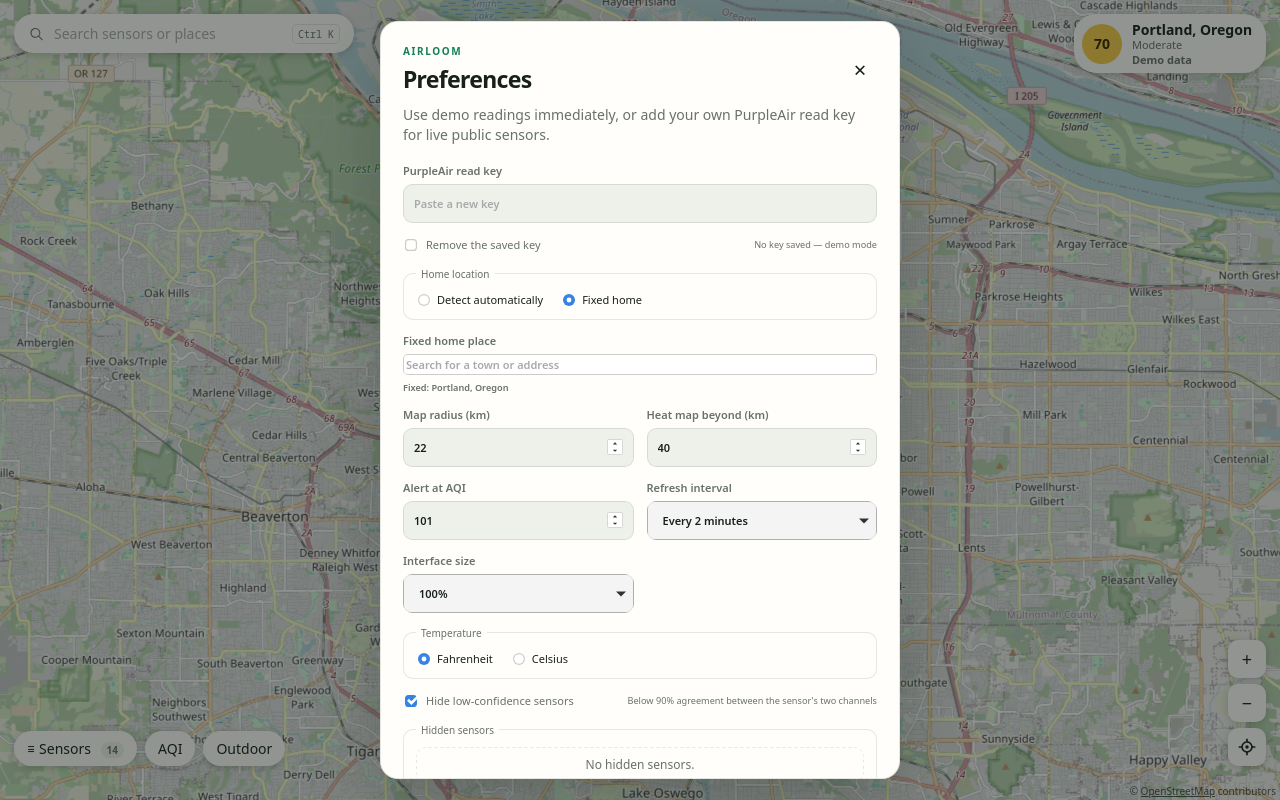
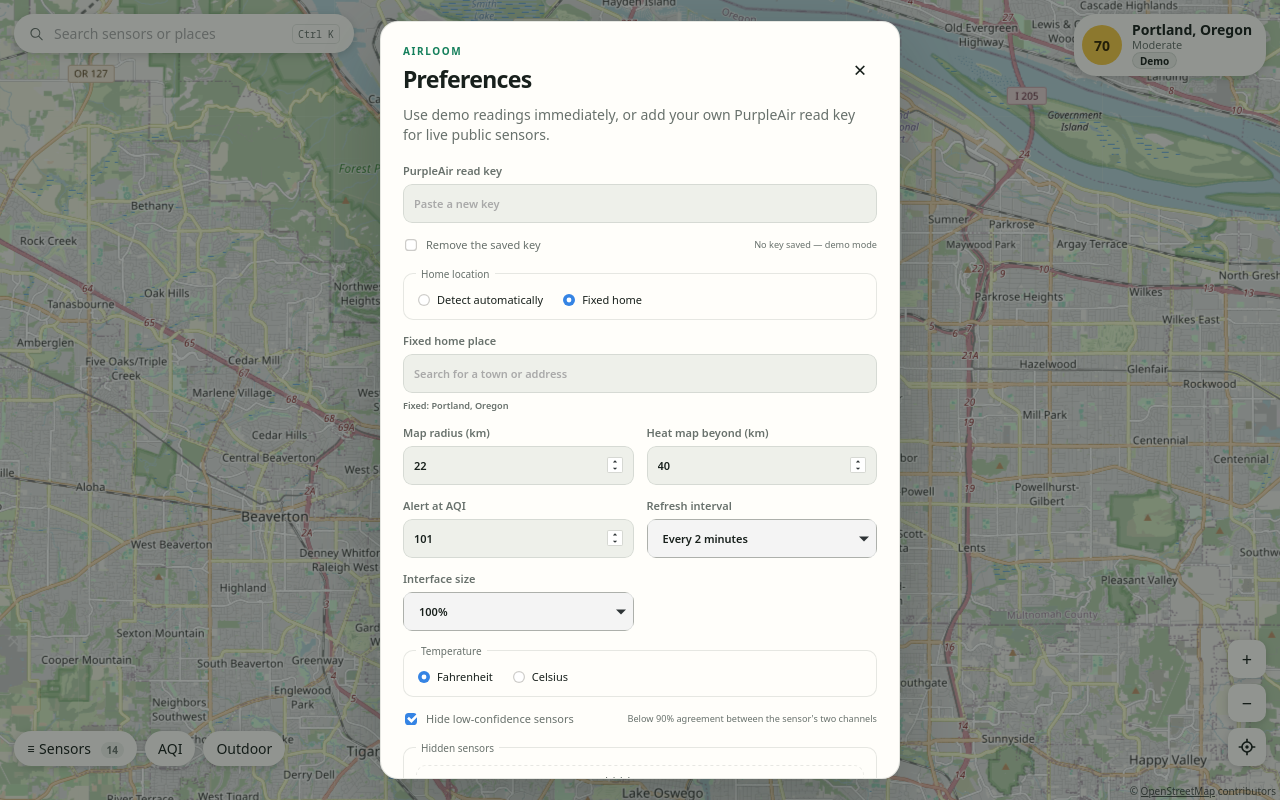
Release 0.14.0

diff --git a/airloom/__init__.py b/airloom/__init__.py
@@ -1,4 +1,4 @@
 """Airloom — a GNOME-native, PurpleAir-focused air quality viewer."""
 
-__version__ = "0.13.0"
+__version__ = "0.14.0"
 

diff --git a/CHANGELOG.md b/CHANGELOG.md
@@ -2,6 +2,54 @@
 
 All notable changes to Airloom are documented here. The project follows semantic versioning.
 
+## 0.14.0 — 2026-10-31
+
+- Bad data no longer looks fresh or "Good". A PurpleAir response with short
+  or incomplete rows is rejected whole, leaving the previous cache intact.
+  True/false values in numeric fields are treated as invalid, and
+  observation times more than 10 minutes in the future are treated as
+  missing. Observations more than two hours old, or with no usable time,
+  never trigger alerts and are labeled "Old".
+- Readings carry a badge only when degraded: Demo (generated data), Stale
+  (cached readings shown after a failed refresh), or Old. Each reading gets
+  its own badge on the map popup, sensor lists, sensor search results, the
+  detail card, and screen-reader names and announcements. Live readings and
+  readings served from the normal cache interval are no longer labeled
+  "Cached".
+- Alerts are no longer lost when a desktop notification fails: the alert
+  stays pending and is retried. If alert state can't be saved, the same
+  crossing isn't announced again in that session.
+- A manual Refresh stays forced until it completes, even when an automatic
+  refresh or an unchanged view arrives first. Removing or changing the
+  PurpleAir key stops queued paid trend requests, and results still in
+  flight for the old key are discarded. An offline favorite no longer discards cached area coverage,
+  which had caused repeated billed fetches. Trend and startup cache work
+  runs off the main thread, so a locked cache database no longer freezes
+  the window, and failed cache writes roll back. Area labels are briefly
+  cached, so repeat lookups don't contact Nominatim again.
+- Text on the AQI colors and on the accent color now meets WCAG contrast.
+  Every AQI color is unchanged; the detail card's AQI number now sits on a
+  badge in its band color.
+- The map can be panned from the keyboard: Tab to it, then use the arrow
+  keys (with Shift to move farther) and `+`/`-` to zoom. Trend charts label
+  each point and include a screen-reader table of the values. Focus stays
+  in the hidden-sensors list while it updates, and Escape cancels a pending
+  place search. Narrow and scaled windows fit long names and three-digit AQI
+  values in both light and dark styles.
+- Map tiles that fail to load are retried automatically, and immediately on
+  Refresh. When Airloom reloads its map page after a problem, it keeps the
+  area you were viewing instead of returning home.
+- The browser preview disables the settings it can't apply (map radius,
+  refresh interval, alert threshold, the confidence filter, and home
+  location) and explains why.
+- Saving settings now also syncs the settings folder in the background. If
+  the disk can't confirm the save, Airloom shows a warning and the new
+  settings stay applied.
+- Release upgrade checks now keep the signing trust existing installs
+  already have, so a signing-key rotation fails the gate until a reviewed
+  client migration exists. `make install` and `make uninstall` quote their
+  destination paths.
+
 ## 0.13.0 — 2026-10-30
 
 - AQI correction now follows the published final EPA equations for
